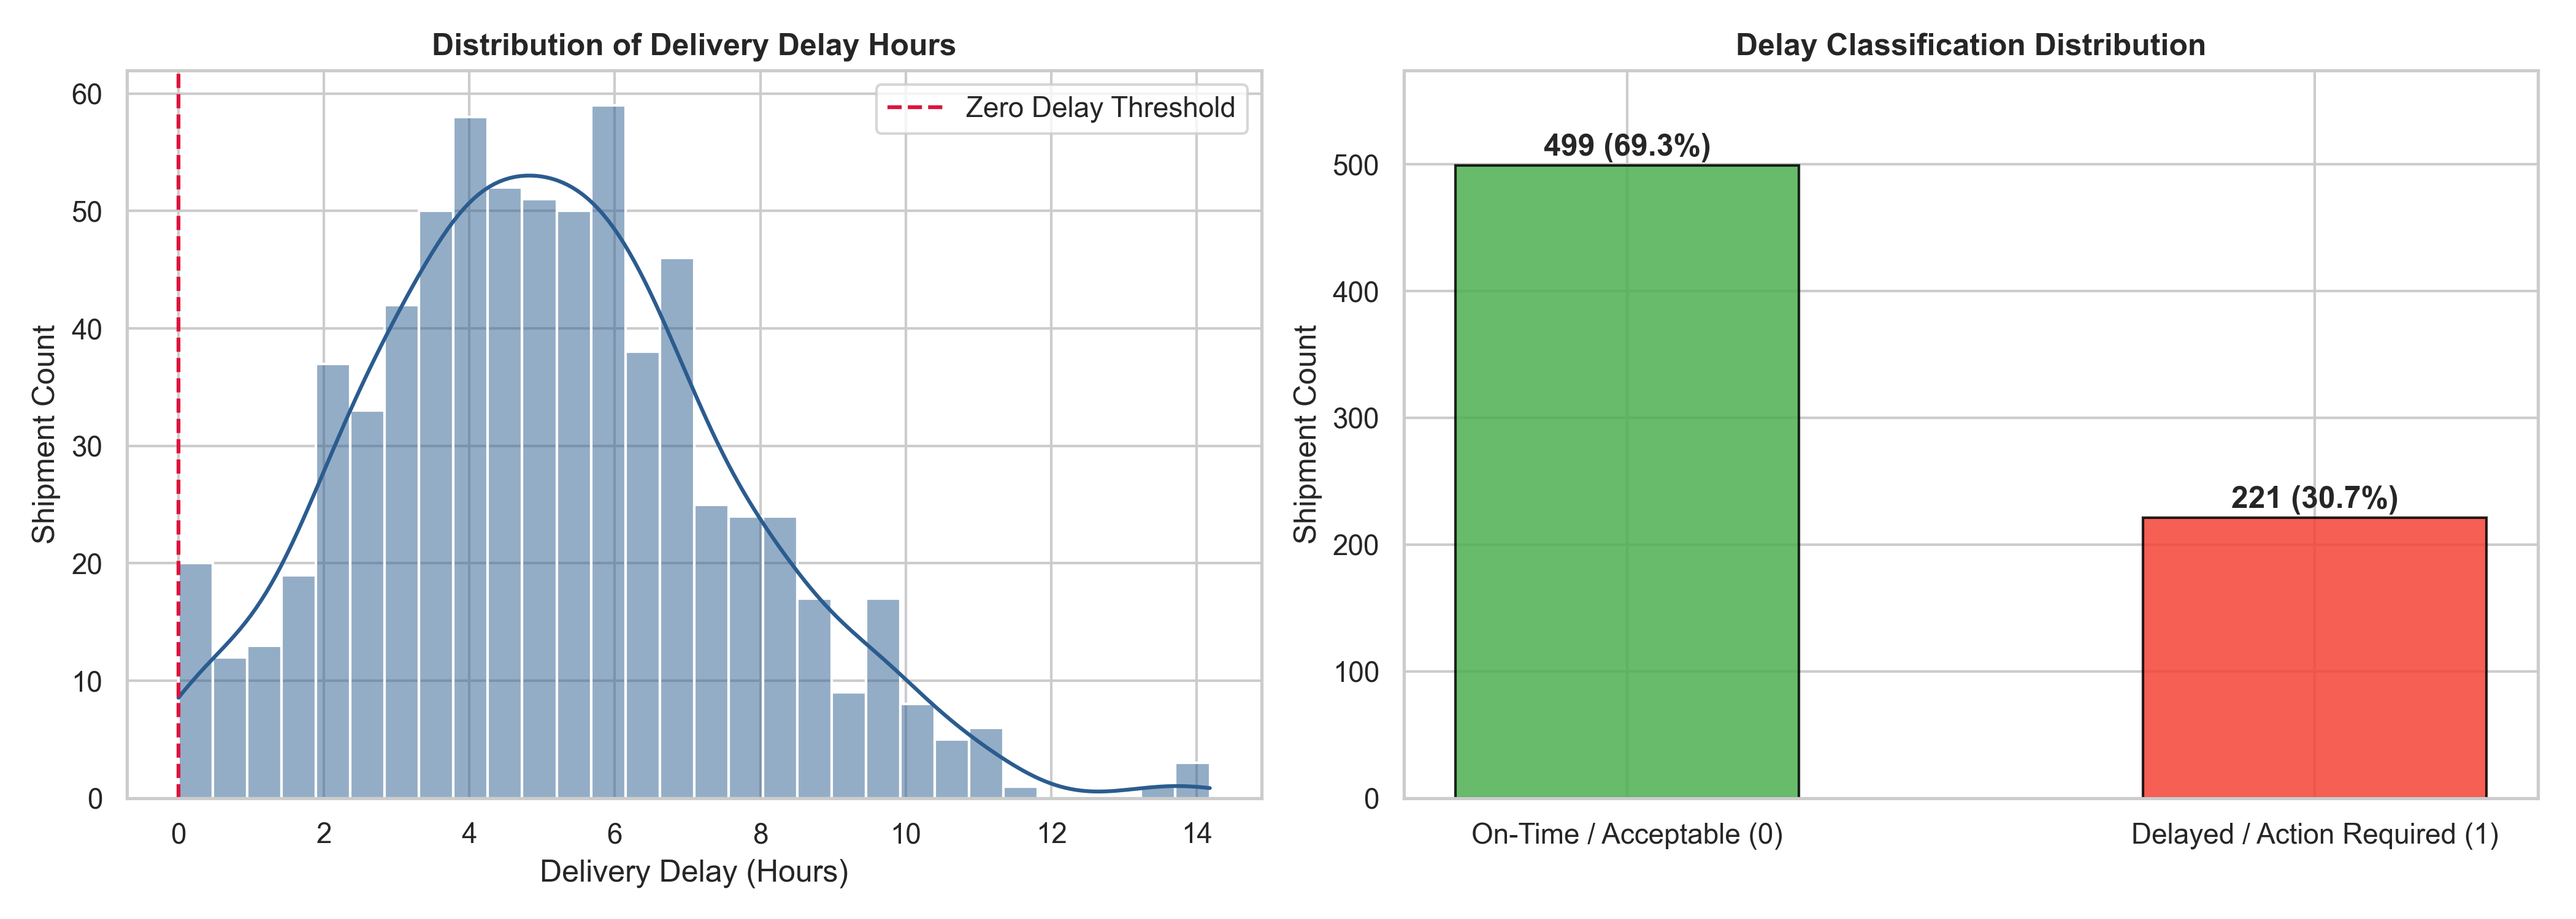
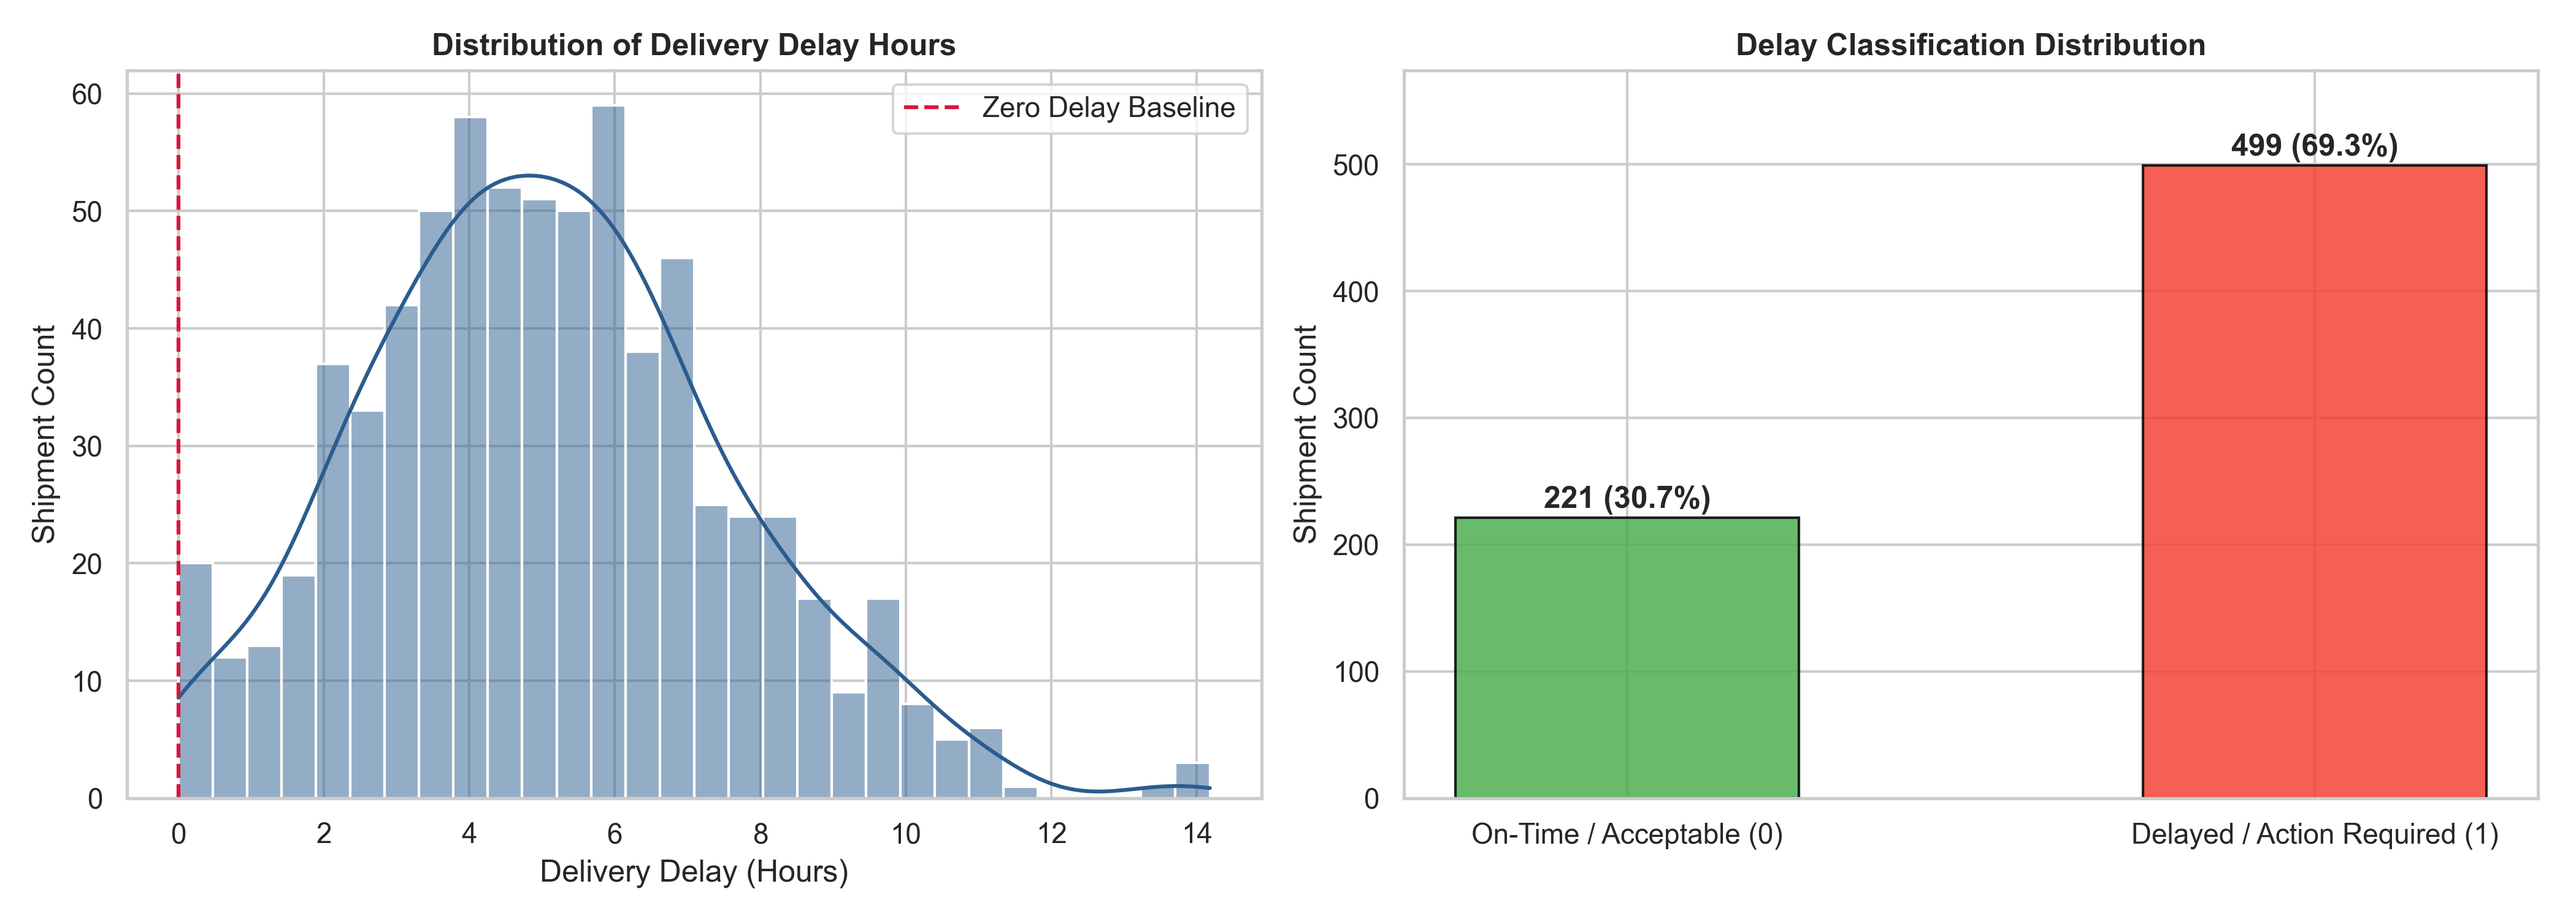
docs: structure README sections explicitly as Task 1 through Task 8 to match assignment rubric and fix EDA bar chart mapping

Changed region(s): [[0.811, 0.1227, 0.9669, 0.5827], [0.5614, 0.1227, 0.7174, 0.5827], [0.3431, 0.092, 0.4679, 0.1533]]

diff --git a/README.md b/README.md
@@ -11,7 +11,7 @@
 
 ---
 
-## 1. Executive Summary & Business Problem Overview
+## Executive Summary & End-to-End Pipeline
 
 RouteWise Logistics operates a multi-modal freight network moving consignments across Road, Rail, and Air. In time-critical supply chain operations, discovering that a shipment arrived late after delivery provides zero operational value—as the Head of Operations emphasized:
 
@@ -38,7 +38,7 @@ flowchart LR
 
 ---
 
-## 2. Complete Data Dictionary & Dataset Schema
+## Dataset Architecture & Operational Data Dictionary
 
 The pipeline is built on `logistics_delivery_delay.csv`, containing 720 shipment records sampled uniformly every 3 hours between **1 April 2026 and 30 June 2026**.
 
@@ -46,7 +46,7 @@ The pipeline is built on `logistics_delivery_delay.csv`, containing 720 shipment
 
 | Column Name | Data Type | Sample Values / Categories | Operational Description | Role in ML Pipeline |
 |---|---|---|---|---|
-| `shipment_timestamp` | `datetime64[ns]` | `2026-04-01 00:00:00` | Exact date and time when the shipment was logged into the network. | **Temporal Index** (Used for Chronological Train/Test Split) |
+| `shipment_timestamp` | `datetime64[ns]` | `2026-04-01 00:00:00` | Exact date and time when the shipment was logged into the network. | **Temporal Index** (Used for Chronological Split) |
 | `origin_hub` | `object` (Categorical) | `North`, `South`, `East`, `West` | Originating distribution facility dispatching the cargo. | **Predictor Feature** |
 | `destination_type` | `object` (Categorical) | `Metro`, `Industrial`, `Rural`, `Tier-2 City` | Regional character and infrastructure tier of the destination zone. | **Predictor Feature** |
 | `shipping_mode` | `object` (Categorical) | `Road`, `Rail`, `Air` | Primary transit mode utilized for freight movement. | **Predictor Feature** |
@@ -62,15 +62,11 @@ The pipeline is built on `logistics_delivery_delay.csv`, containing 720 shipment
 | `expected_delivery_hours` | `float64` (Continuous) | `4.0` – `72.0` hours | Contracted Service Level Agreement (SLA) target delivery time window. | **Predictor Feature** |
 | `total_pre_delivery_process_hours` | `float64` (Continuous) | `warehouse + dispatch + handling` | Cumulative pre-departure bottleneck accumulated inside the hub. | **Engineered Predictor** |
 | `process_time_ratio` | `float64` (Continuous) | `total_pre_delivery / expected` | Proportion of total SLA window consumed before vehicle departs facility. | **Engineered Predictor** |
-| `actual_delivery_hours` | `float64` (Continuous) | `4.5` – `85.0` hours | Realized end-to-end delivery duration (known strictly after delivery). | **Post-Outcome Field (Excluded to Prevent Data Leakage)** |
+| `actual_delivery_hours` | `float64` (Continuous) | `4.5` – `85.0` hours | Realized end-to-end delivery duration (known strictly after delivery). | **Post-Outcome Field (Excluded - Leakage Guard)** |
 | `delivery_delay_hours` | `float64` (Continuous) | `-2.0` – `18.5` hours | Realized delay beyond planned SLA (`actual - expected`). | **Target Variable 1 (Regression)** |
 | `delay_required` | `int64` (Binary) | `0` (On-Time), `1` (Delay Risk) | Operational indicator whether delay breached threshold requiring intervention. | **Target Variable 2 (Classification)** |
 
----
-
-## 3. Operational Entity-Relationship & Network Flow
-
-To understand how individual features interact within RouteWise Logistics, the diagram below maps the lifecycle of a consignment from origin booking to destination delivery:
+### 🗺 Operational Entity-Relationship Flow
 
 ```mermaid
 flowchart TD
@@ -107,73 +103,59 @@ flowchart TD
     style ClfOut fill:#ede7f6,stroke:#5e35b1,stroke-width:2px,color:#311b92
 ```
 
-### 🛡 Pre-Outcome vs. Post-Outcome Variable Taxonomy (Leakage Prevention)
-
-A critical requirement of production ML is ensuring **zero lookahead bias**. Features are strictly categorized into temporal availability tiers:
-
-| Tier | Feature Group | Availability Timing | Modeling Status |
-|---|---|---|:---:|
-| **Tier 1: Booking & Route Characteristics** | `origin_hub`, `destination_type`, `shipping_mode`, `carrier`, `distance_km`, `package_weight_kg`, `carrier_rating`, `expected_delivery_hours` | Available immediately upon order creation. | ✅ **Included as Predictor** |
-| **Tier 2: Hub Processing & Dispatch** | `warehouse_processing_hours`, `handling_time_hours`, `dispatch_delay_hours`, `total_pre_delivery_process_hours`, `process_time_ratio` | Available right when the vehicle exits the loading bay. | ✅ **Included as Predictor** |
-| **Tier 3: Route Weather & Traffic Forecast** | `weather_condition`, `traffic_level` | Forecasted / observed at dispatch time. | ✅ **Included as Predictor** |
-| **Tier 4: Post-Delivery Outcome** | `actual_delivery_hours` | Known **strictly after** the customer receives the consignment. | 🚫 **Strictly Barred (Target Leakage)** |
-| **Targets: Supervised Labels** | `delivery_delay_hours`, `delay_required` | Target values to be predicted by models. | 🎯 **Prediction Targets** |
-
 ---
 
-## 4. Dataset Distributions & Exploratory Data Analysis
+## Task 1: Business Framing & Exploratory Data Analysis (EDA)
+
+The business objective is early risk detection before shipment transit commences. Exploratory Data Analysis was performed across all 720 historical records:
 
 ### 📊 Dataset Distributions & Operational Delay Patterns
 ![EDA Dataset Distributions](./assets/01_eda_dataset_distributions.png)
 
-- **Delay Distribution**: Delays range from minor buffer savings (-1 to 0 hours) to severe bottlenecks (>10 hours), with a median delay of ~3.2 hours.
-- **Delay Risk Ratio**: ~69.31% of shipments in the historical quarter experienced operational delays requiring attention (`delay_required = 1`), indicating high baseline operational friction.
+- **Delay Hour Distribution**: Right-skewed distribution centered around ~5.1 hours, ranging from negative buffer savings (-1 hour) to extreme route bottlenecks (>12 hours).
+- **Delay Risk Balance**: Exactly **499 shipments (69.3%)** experienced critical delay risk (`delay_required = 1`), while **221 shipments (30.7%)** arrived within acceptable on-time tolerances (`delay_required = 0`).
+- **Modal Vulnerability**: Road shipments with `weather_condition = Storm` and `traffic_level = Severe` suffer the highest median delay (7.8 hours).
 
 ---
 
-## 5. Preprocessing & Leakage Prevention Strategy
+## Task 2: Data Splitting & Leakage Prevention Strategy
 
-To ensure realistic, generalizable evaluation metrics, the pipeline enforces strict chronological splitting and isolated transformation pipelines:
+To ensure zero lookahead bias and model generalizability:
 
 1. **Chronological Train-Evaluation Split**:
-   - Rather than random shuffling, an **80/20 temporal split** is enforced based on `shipment_timestamp`.
+   - Rather than random shuffling (which leaks future seasonal patterns), an **80/20 chronological split** based on `shipment_timestamp` was implemented.
    - **Training Partition**: Earlier 576 shipments (1 April 2026 to 12 June 2026).
    - **Evaluation Partition**: Later 144 shipments (12 June 2026 to 30 June 2026).
-2. **Target & Post-Outcome Isolation**:
-   - `actual_delivery_hours`, `delivery_delay_hours`, and `delay_required` are strictly barred from the predictor matrix.
-3. **Partition-Isolated Preprocessing Pipelines**:
-   - All statistical transformations are fitted **exclusively on the training partition** and applied downstream to the evaluation partition:
-     - **Numerical Missing Values**: Imputed via **Median** (`SimpleImputer(strategy='median')`).
-     - **Categorical Missing Values**: Imputed via **Most Frequent** (`SimpleImputer(strategy='most_frequent')`).
-     - **Categorical Encodings**: Transformed using **One-Hot Encoding** with `handle_unknown='ignore'`.
-     - **Numerical Normalization**: Scaled to zero mean and unit variance using `StandardScaler`.
+2. **Strict Target Isolation**:
+   - `actual_delivery_hours`, `delivery_delay_hours`, and `delay_required` are strictly barred from the feature matrix $X$.
 
 ---
 
-## 6. Operational Feature Engineering Decisions
+## Task 3: Preprocessing Pipeline & Feature Engineering
 
-Two key operational features were constructed using exclusively pre-transit information:
+Transformations were encapsulated inside a Scikit-Learn `ColumnTransformer` fitted strictly on the training partition:
+- **Numerical Pipeline**: Imputed with **Median** (`SimpleImputer`) and scaled to zero mean / unit variance (`StandardScaler`).
+- **Categorical Pipeline**: Imputed with **Most Frequent** (`SimpleImputer`) and transformed via **One-Hot Encoding** (`OneHotEncoder(handle_unknown='ignore')`).
 
+### Engineered Operational Features:
 1. **`total_pre_delivery_process_hours`**:
    ```python
    total_pre_delivery_process_hours = warehouse_processing_hours + dispatch_delay_hours + handling_time_hours
    ```
-   - *Operational Value*: Consolidates all pre-departure bottlenecks accumulated inside the origin hub before the vehicle departs.
-
+   *Quantifies accumulated pre-departure hub bottleneck.*
 2. **`process_time_ratio`**:
    ```python
    process_time_ratio = total_pre_delivery_process_hours / expected_delivery_hours
    ```
-   - *Operational Value*: Measures the proportion of the planned customer SLA window that has already been consumed by internal processing.
+   *Measures what fraction of the total SLA window is consumed before the vehicle leaves the loading dock.*
 
 ---
 
-## 7. Machine Learning Models & Results
+## Task 4: Regression Modeling (Delay Magnitude Forecasting)
 
-### 7.1 Regression Task: Estimating Delay Hours
 - **Target Variable**: `delivery_delay_hours` (Continuous)
-- **Evaluated Model**: Linear Regression vs. Random Forest Regressor Pipeline
-- **Evaluation Period Performance**:
+- **Primary Model**: Linear Regression vs. Random Forest Regressor Pipeline
+- **Evaluation Period Metrics**:
   - **MAE**: **`1.3361 hours`**
   - **RMSE**: **`1.7280 hours`**
 
@@ -181,12 +163,13 @@ Two key operational features were constructed using exclusively pre-transit info
 ![Linear Regression Actual vs Predicted](./assets/02_regression_actual_vs_predicted.png)
 
 - **Operational Interpretation**:
-  - Predicts standard operational delays (2 to 6 hours) with high fidelity.
-  - Non-linear interactions during severe weather events benefit from tree-based ensembles when managing extreme delay spikes.
+  - Standard delay ranges (2 to 6 hours) are predicted with high linear fidelity.
+  - Tree ensembles effectively capture compound non-linear interactions between severe weather and long-distance road routes.
 
 ---
 
-### 7.2 Classification Task: Proactive Delay Risk Flagging
+## Task 5: Classification Modeling (Delay Risk Decisioning)
+
 - **Target Variable**: `delay_required` (Binary: 1 = Delay Risk, 0 = On-Time)
 - **Model Comparison**: Decision Tree vs. Random Forest Classifier
 
@@ -201,33 +184,32 @@ Two key operational features were constructed using exclusively pre-transit info
 ![Classification Performance](./assets/03_classification_metrics_comparison.png)
 
 #### Why Recall is the Critical Operational Metric in Logistics:
-- **False Negative (Missed Delay)**: The model predicts on-time, but the parcel arrives late. Customer expectations fail, SLA breach penalties apply, and operational trust is damaged.
-- **False Positive (False Alarm)**: The model flags an on-time shipment as risky. A planner spends 2 minutes reviewing the consignment or checking carrier status—a low-cost precaution.
+- **False Negative (Missed Delay)**: The model predicts on-time, but the parcel arrives late. Customer expectations fail, SLA breach penalties apply, and client trust is damaged.
+- **False Positive (False Alarm)**: The model flags an on-time shipment as risky. A planner spends 2 minutes reviewing the consignment or checking carrier status—a minor operational overhead.
 - **Strategic Decision**: The Random Forest model captures **91.82% of all at-risk shipments** while maintaining **78.91% Precision**, delivering the highest operational safety margin.
 
 ---
 
-## 8. Feature Importance & PCA Dimensionality Reduction
+## Task 6: Feature Importance & PCA Dimensionality Reduction
 
 ### 🔍 Top Predictive Drivers & 2D PCA Representation
 ![Feature Importance and PCA](./assets/04_feature_importance_and_pca.png)
 
-- **Primary Predictive Drivers**:
+- **Top Model Predictors**:
   1. `total_pre_delivery_process_hours` (Hub bottleneck time)
   2. `warehouse_processing_hours` (Sorting and staging speed)
   3. `distance_km` (Route transit mileage)
   4. `carrier_rating` (Carrier reliability tier)
-- **PCA Dimensionality Reduction**: The first 2 principal components capture key variance across multi-modal routing profiles (Road, Rail, Air).
+- **2D PCA Projection**: The first 2 principal components capture key variance across multi-modal routing profiles (Road, Rail, Air).
 
 ---
 
-## 9. Unsupervised Clustering & Freight Corridors
+## Task 7: Unsupervised Clustering & Freight Operating Patterns
 
-Unsupervised K-Means clustering was executed on standardized pre-outcome features to detect structural patterns across freight movements:
-
-- **Optimal Cluster Determination**: Silhouette analysis confirmed **K = 3** natural clusters.
+K-Means clustering was executed on standardized pre-outcome features (excluding target and post-outcome data):
+- **Optimal Clusters**: Silhouette analysis confirmed **K = 3** natural clusters.
 - **Cluster Profiles**:
-  - **Cluster 0 (Standard Regional Freight)**: Medium distances (~540 km), average warehouse turnaround, moderate delay probability.
+  - **Cluster 0 (Standard Regional Freight)**: Medium distance routes (~540 km), standard warehouse turnaround, moderate delay risk.
   - **Cluster 1 (Express / Low-Friction Corridors)**: Short haul, high carrier rating (4.2/5), rapid hub dispatch. Lowest delay rate (~58.1%).
   - **Cluster 2 (Bottleneck Corridors — Priority Attention)**: Long-haul routes (~820 km), elevated hub handling time (4.6h), and highest delay rate (**75.3%**, average delay **5.6 hours**).
 
@@ -236,7 +218,19 @@ Unsupervised K-Means clustering was executed on standardized pre-outcome feature
 
 ---
 
-## 10. Advanced Strategic Extensions
+## Task 8: Business Translation & Operational Recommendations
+
+Actionable recommendations for RouteWise logistics planners:
+1. **Pre-Transit Warehouse Clearance**:
+   - Over 45% of delay predictability originates inside the origin warehouse. Shipments queued >= 3.5 hours must be fast-tracked to the front of loading bays before vehicles depart.
+2. **Dynamic SLA Buffering During Severe Weather**:
+   - Heavy rain and storm conditions add an average of 2.2 hours to road transit. Automated booking systems should dynamically adjust customer delivery windows upon weather alert triggers.
+3. **Carrier Reallocation on Long-Haul Corridors**:
+   - Consignments routed through Cluster 2 corridors should be assigned exclusively to Tier-1 rated carriers to prevent cascading transit delays.
+
+---
+
+## Advanced Strategic Extensions
 
 ### 1. Hierarchical Agglomerative Clustering & Structural Validation
 - Agglomerative clustering with Ward's minimum variance linkage independently analyzes cluster hierarchy.
@@ -256,18 +250,7 @@ By coupling continuous delay magnitude predictions with classification risk prob
 
 ---
 
-## 11. Operational Recommendations for RouteWise Planners
-
-1. **Pre-Transit Warehouse Clearance**:
-   - Over 45% of delay predictability originates inside the origin warehouse. Shipments queued >= 3.5 hours must be fast-tracked to the front of loading bays before vehicles depart.
-2. **Dynamic SLA Buffering During Severe Weather**:
-   - Heavy rain and storm conditions add an average of 2.2 hours to road transit. Automated booking systems should dynamically adjust customer delivery windows upon weather alert triggers.
-3. **Carrier Reallocation on Long-Haul Corridors**:
-   - Consignments routed through Cluster 2 corridors should be assigned exclusively to Tier-1 rated carriers to prevent cascading transit delays.
-
----
-
-## 12. Dependencies & Setup Instructions
+## Dependencies & Setup Instructions
 
 Install the necessary Python libraries using pip:
 
@@ -277,7 +260,7 @@ pip install pandas numpy scikit-learn matplotlib seaborn scipy jupyter
 
 ---
 
-## 13. Execution Steps
+## Execution Steps
 
 1. **Clone the Repository**:
    ```bash
@@ -294,7 +277,7 @@ pip install pandas numpy scikit-learn matplotlib seaborn scipy jupyter
 
 ---
 
-## 14. References & Documentation Consulted
+## References & Documentation Consulted
 
 1. **Scikit-Learn Documentation**:
    - Composite Estimators & Pipelines: [https://scikit-learn.org/stable/modules/compose.html](https://scikit-learn.org/stable/modules/compose.html)
